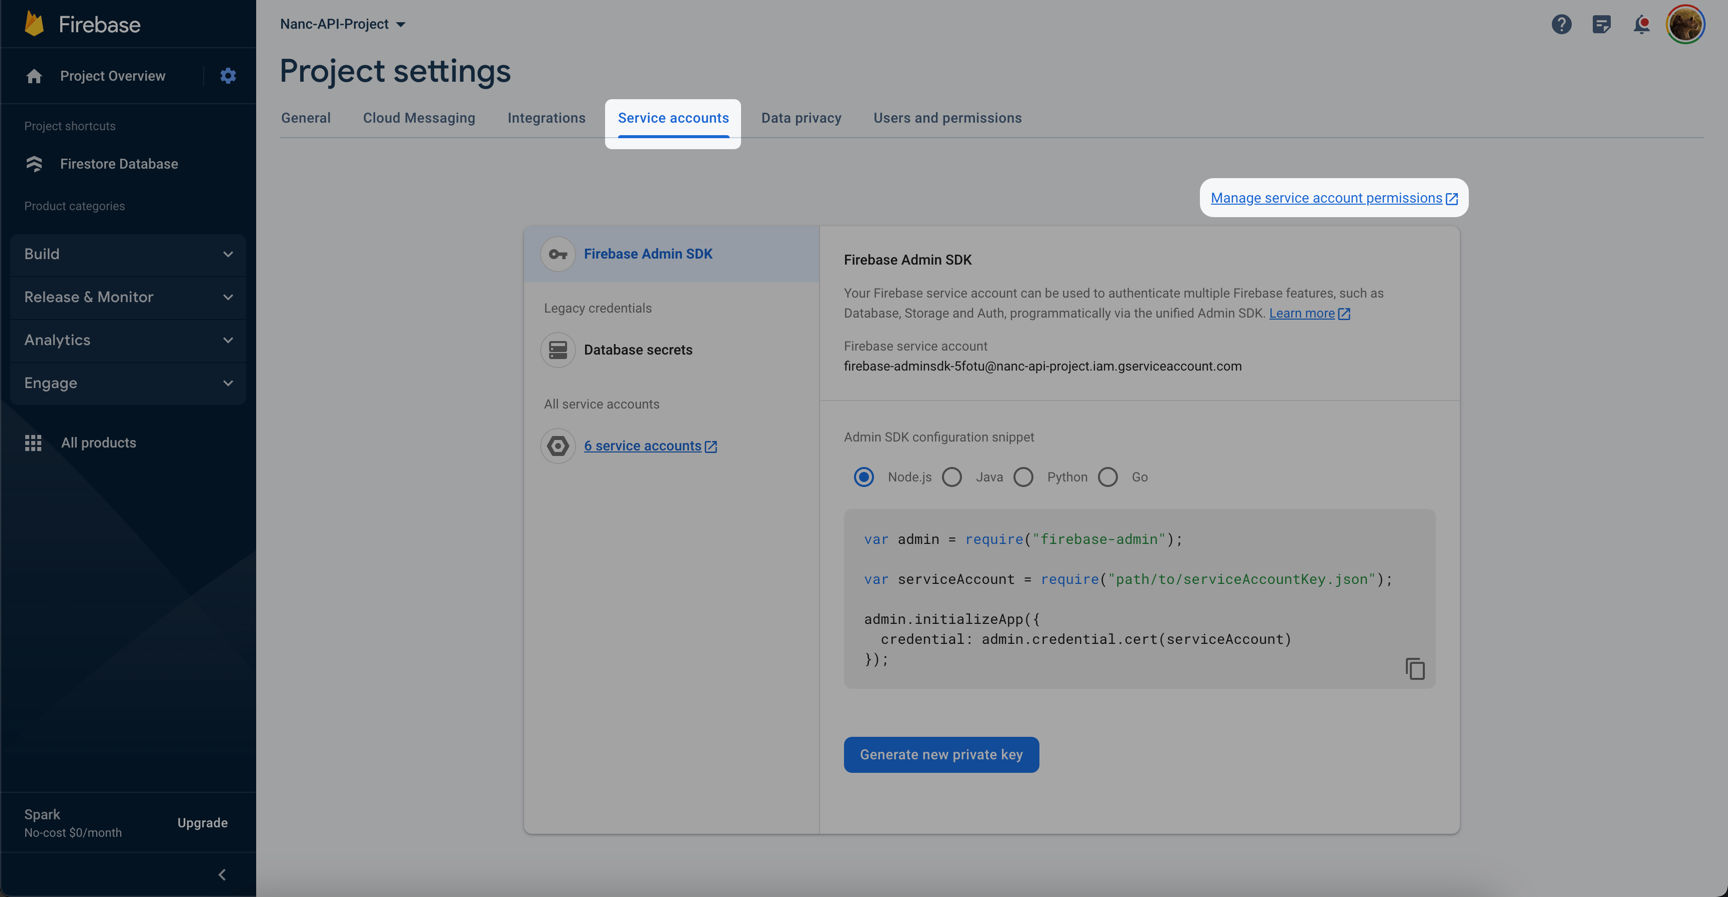
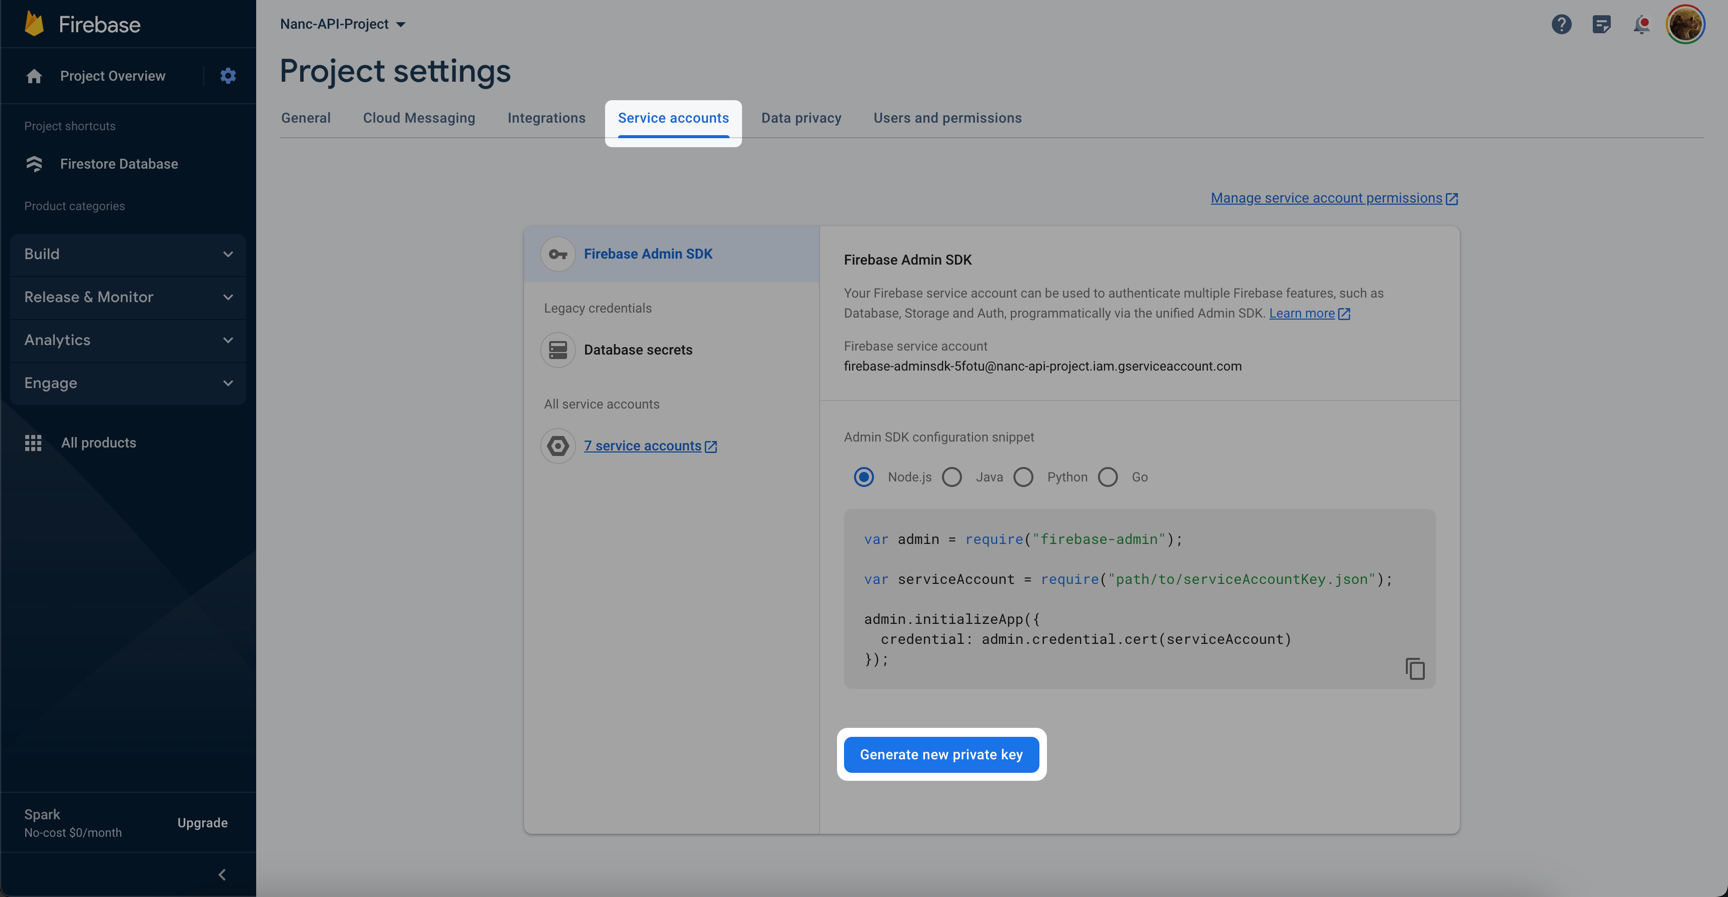
- fixes and demo data preparations

Changed region(s): [[0.6875, 0.1873, 0.875, 0.2497], [0.4688, 0.8116, 0.625, 0.874]]

diff --git a/docusaurus.config.js b/docusaurus.config.js
@@ -1,143 +1,63 @@
-// @ts-check
-// Note: type annotations allow type checking and IDEs autocompletion
-
 const lightCodeTheme = require('prism-react-renderer/themes/github');
 const darkCodeTheme = require('prism-react-renderer/themes/dracula');
 
-/** @type {import('@docusaurus/types').Config} */
-const config = {
+module.exports = {
   title: 'Nanc',
   tagline: 'Next gen CMS from the Future',
   favicon: 'favicon.ico',
-
-  // Set the production url of your site here
   url: 'https://nanc.io',
-  // Set the /<baseUrl>/ pathname under which your site is served
-  // For GitHub pages deployment, it is often '/<projectName>/'
   baseUrl: '/',
-
-  // GitHub pages deployment config.
-  // If you aren't using GitHub pages, you don't need these.
-  organizationName: 'Nanc Inc.', // Usually your GitHub org/user name.
-  projectName: 'nanc', // Usually your repo name.
-
+  organizationName: 'Nanc Inc.',
+  projectName: 'nanc',
   onBrokenLinks: 'throw',
   onBrokenMarkdownLinks: 'warn',
-
-  // Even if you don't use internalization, you can use this field to set useful
-  // metadata like html lang. For example, if your site is Chinese, you may want
-  // to replace "en" with "zh-Hans".
   i18n: {
-    defaultLocale: 'en',
-    locales: ['en'],
+    defaultLocale: 'en', locales: ['en'],
   },
+  presets: [['classic', {
+    docs: {
+      sidebarPath: require.resolve('./sidebars.js'), editUrl: 'https://github.com/facebook/docusaurus/tree/main/packages/create-docusaurus/templates/shared/',
+    }, blog: {
+      showReadingTime: true, editUrl: 'https://github.com/facebook/docusaurus/tree/main/packages/create-docusaurus/templates/shared/',
+    }, theme: {
+      customCss: require.resolve('./src/css/custom.css'),
+    },
+  }]],
 
-  presets: [
-    [
-      'classic',
-      /** @type {import('@docusaurus/preset-classic').Options} */
-      ({
-        docs: {
-          sidebarPath: require.resolve('./sidebars.js'),
-          // Please change this to your repo.
-          // Remove this to remove the "edit this page" links.
-          editUrl:
-            'https://github.com/facebook/docusaurus/tree/main/packages/create-docusaurus/templates/shared/',
-        },
-        blog: {
-          showReadingTime: true,
-          // Please change this to your repo.
-          // Remove this to remove the "edit this page" links.
-          editUrl:
-            'https://github.com/facebook/docusaurus/tree/main/packages/create-docusaurus/templates/shared/',
-        },
-        theme: {
-          customCss: require.resolve('./src/css/custom.css'),
-        },
-      }),
-    ],
-  ],
-
-  themeConfig:
-  /** @type {import('@docusaurus/preset-classic').ThemeConfig} */
-    ({
-      // Replace with your project's social card
-      // image: 'img/docusaurus-social-card.jpg',
-      navbar: {
-        title: 'Nanc',
-        logo: {
-          alt: 'Logo',
-          src: 'img/logo.png',
-        },
-        items: [
-          {
-            type: 'docSidebar',
-            sidebarId: 'tutorialSidebar',
-            position: 'left',
-            label: 'Docs',
-          },
-          {
-            to: '/blog',
-            label: 'Blog',
-            position: 'left',
-          },
-          {
-            href: 'https://github.com/alphamikle/nanc',
-            label: 'GitHub',
-            position: 'right',
-          },
-        ],
-      },
-      footer: {
-        style: 'dark',
-        links: [
-          {
-            title: 'Docs',
-            items: [
-              {
-                label: 'Tutorial',
-                to: '/docs/intro',
-              },
-            ],
-          },
-          {
-            title: 'Community',
-            items: [
-              {
-                label: 'Stack Overflow',
-                href: 'https://stackoverflow.com/questions/tagged/docusaurus',
-              },
-              {
-                label: 'Discord',
-                href: 'https://discordapp.com/invite/docusaurus',
-              },
-              {
-                label: 'Twitter',
-                href: 'https://twitter.com/docusaurus',
-              },
-            ],
-          },
-          {
-            title: 'More',
-            items: [
-              {
-                label: 'Blog',
-                to: '/blog',
-              },
-              {
-                label: 'GitHub',
-                href: 'https://github.com/facebook/docusaurus',
-              },
-            ],
-          },
-        ],
-        copyright: `Copyright © ${new Date().getFullYear()} Nanc Inc.`,
-      },
-      prism: {
-        theme: lightCodeTheme,
-        darkTheme: darkCodeTheme,
-      },
-    }),
+  themeConfig: {
+    navbar: {
+      title: 'Nanc', logo: {
+        alt: 'Logo', src: 'img/logo.png',
+      }, items: [{
+        type: 'docSidebar', sidebarId: 'tutorialSidebar', position: 'left', label: 'Docs',
+      }, {
+        to: '/blog', label: 'Blog', position: 'left',
+      }, {
+        href: 'https://github.com/alphamikle/nanc', label: 'GitHub', position: 'right',
+      }],
+    }, footer: {
+      style: 'dark', links: [{
+        title: 'Docs', items: [{
+          label: 'Tutorial', to: '/docs/intro',
+        }],
+      }, {
+        title: 'Community', items: [{
+          label: 'Stack Overflow', href: 'https://stackoverflow.com/questions/tagged/docusaurus',
+        }, {
+          label: 'Discord', href: 'https://discordapp.com/invite/docusaurus',
+        }, {
+          label: 'Twitter', href: 'https://twitter.com/docusaurus',
+        }],
+      }, {
+        title: 'More', items: [{
+          label: 'Blog', to: '/blog',
+        }, {
+          label: 'GitHub', href: 'https://github.com/facebook/docusaurus',
+        }],
+      }], copyright: `Copyright © ${new Date().getFullYear()} Nanc Inc.`,
+    }, prism: {
+      theme: lightCodeTheme, darkTheme: darkCodeTheme,
+      additionalLanguages: ['dart', 'yaml'],
+    },
+  },
 };
-
-module.exports = config;

diff --git a/docs/packages/api/nanc_api_firebase.md b/docs/packages/api/nanc_api_firebase.md
@@ -1,5 +1,13 @@
 # Firebase API
 
+:::danger
+Working with Firestore Database implies the use of a service account. This account will have full access to read and modify data in your database. Be very careful where you deploy your Nanc build - if third-party users can get into it - they will be able to find out and change your data. **Your security is on your shoulders.**
+:::
+
+:::note
+In the future, instructions on how to customize Nanc's built-in functionality will appear here, allowing potentially dangerous Nanc builds to be published to the public.
+:::
+
 ## Installing
 
 ```yaml
@@ -12,7 +20,7 @@ dependencies:
 
 ### Creating Firebase Project
 
-First, you need to create a Firebase project. If you want to use Nanc with an existing project, you can skip this section. Also, the official [documentation](https://pub.dev/packages/cloud_firestore) from Google will be the best instruction for actions. However, here we will show you the way to create a new Firebase project too.
+First, you need to create a Firebase project. If you want to use Nanc with an existing project, you can skip this section and [go to the key generation one](#get-firebase-service-key). Also, the official [documentation](https://pub.dev/packages/cloud_firestore) from Google will be the best instruction for actions. However, here we will show you the way to create a new Firebase project too.
 
 #### Create new project
 
@@ -51,33 +59,68 @@ Go to the project settings
 Then you need to go to the service accounts settings, to create service account and generate its access key
 
 ![](../../../static/screenshots/firebase_api/go_to_service_accounts_permissions.png)
-![](../../../static/screenshots/firebase_api/create_new_service_account.png)
 
-Type any name of your new service account
+And generate the key
 
-![](../../../static/screenshots/firebase_api/type_name_and_create.png)
+![](../../../static/screenshots/firebase_api/generate_key.png)
 
-Select account role
-
-![](../../../static/screenshots/firebase_api/select_account_role.png)
-
-Finish account creation
-
-![](../../../static/screenshots/firebase_api/finish_account_creation.png)
-
-Open newly created account settings
-
-![](../../../static/screenshots/firebase_api/go_to_account_settings.png)
-
-Add key to the service account
-
-![](../../../static/screenshots/firebase_api/add_service_key.png)
-
-Create JSON key and then save it somewhere at your computer, for example - at the root, of your Nanc-CMS build project.
-
-![](../../../static/screenshots/firebase_api/create_service_key.png)
-
-Разрешения у созданного сервисного аккаунта - недостаточные. Нужно пересоздать новый аккаунт с полными разрешениями.
+Then save it somewhere at your computer, for example - at the root, of your Nanc-CMS build project.
 
 ## Using
 
+So you have a database and a JSON key to access it. Now you can create the required API instances to start using Firestore as a backend. The following code will shed some light on how you can implement this:
+
+```dart
+import 'dart:async';
+
+import 'package:cms/cms.dart';
+import 'package:config/config.dart';
+import 'package:flutter/material.dart';
+import 'package:nanc_api_firebase/nanc_api_firebase.dart';
+
+import 'firebase_key.dart';
+
+Future<void> main() async {
+  await runZonedGuarded(() async {
+    WidgetsFlutterBinding.ensureInitialized();
+
+    /// ? Creating instances of needed APIs
+    final FirebaseApi firebaseApi = await FirebaseApi.create(firebaseBase64EncodedKey);
+
+    /// ? Backend-first ICollectionApi implementation
+    final FirebaseCollectionApi firebaseCollectionApi = FirebaseCollectionApi(api: firebaseApi);
+
+    /// ? Partially-local ICollectionApi implementation
+    final FirebaseLocalCollectionApi firebaseLocalCollectionApi = FirebaseLocalCollectionApi(api: firebaseApi);
+    
+    final FirebasePageApi firebasePageApi = FirebasePageApi(api: firebaseApi, firebaseCollectionApi: firebaseCollectionApi);
+    final FirebaseModelApi firebaseModelApi = FirebaseModelApi();
+
+    await adminRunner(
+      CmsConfig(
+        /// ? Use them here
+        collectionApi: firebaseCollectionApi,
+        pageApi: firebasePageApi,
+        modelApi: firebaseModelApi,
+        networkConfig: NetworkConfig.simple(),
+        imageBuilderDelegate: null,
+        adminWrapperBuilder: null,
+        predefinedModels: [
+          /// ? Here will be a list of your predefined code-first models
+        ],
+        customRenderers: [],
+        clickHandlers: [],
+        customFonts: [],
+      ),
+    );
+  }, ErrorsCatcher.catchZoneErrors);
+}
+```
+
+The `firebaseBase64EncodedKey` variable holds the Base64-encoded contents of the JSON key downloaded in the previous step. This is the format in which the `FirebaseApi.create` constructor accepts the key from the Firestore service account.
+
+Also, you might have noticed that there are two `ICollectionApi` implementations declared in the code - `FirebaseCollectionApi` and `FirebaseLocalCollectionApi`. Let's dwell on their differences a bit more.
+
+## Backend-first Collection Api
+
+`FirebaseCollectionApi` - is an implementation of working with collections throught Firestore, which implies constant use of Firestore Database - any filtering, searching, pagination operations will be performed through a new call to the server. Also, the logic of data filtering and searching is implemented in full compliance with the capabilities of Firestore itself. And these capabilities are very limited. For example - you will not be able to find any document by partial coincidence of one of the fields of the document with the value you entered. Say - "find all movies whose title begins with the substring `Appo`". Also, filtering by multiple fields is very limited due to the architecture of Firestore itself, so with this API implementation you are limited in the complexity of filter combinations, and in addition, some filter variations will require you to create special Firestore indexes. However, the latter is not a big deal - just pay attention to the error notifications that may appear in the lower left corner. If you see such a message when trying to find something - from the detailed information in this message you will be able to follow the link straight to the Firestore index creation window, where you will have to click just one button. Let's take a look at what this might look like in real life:
